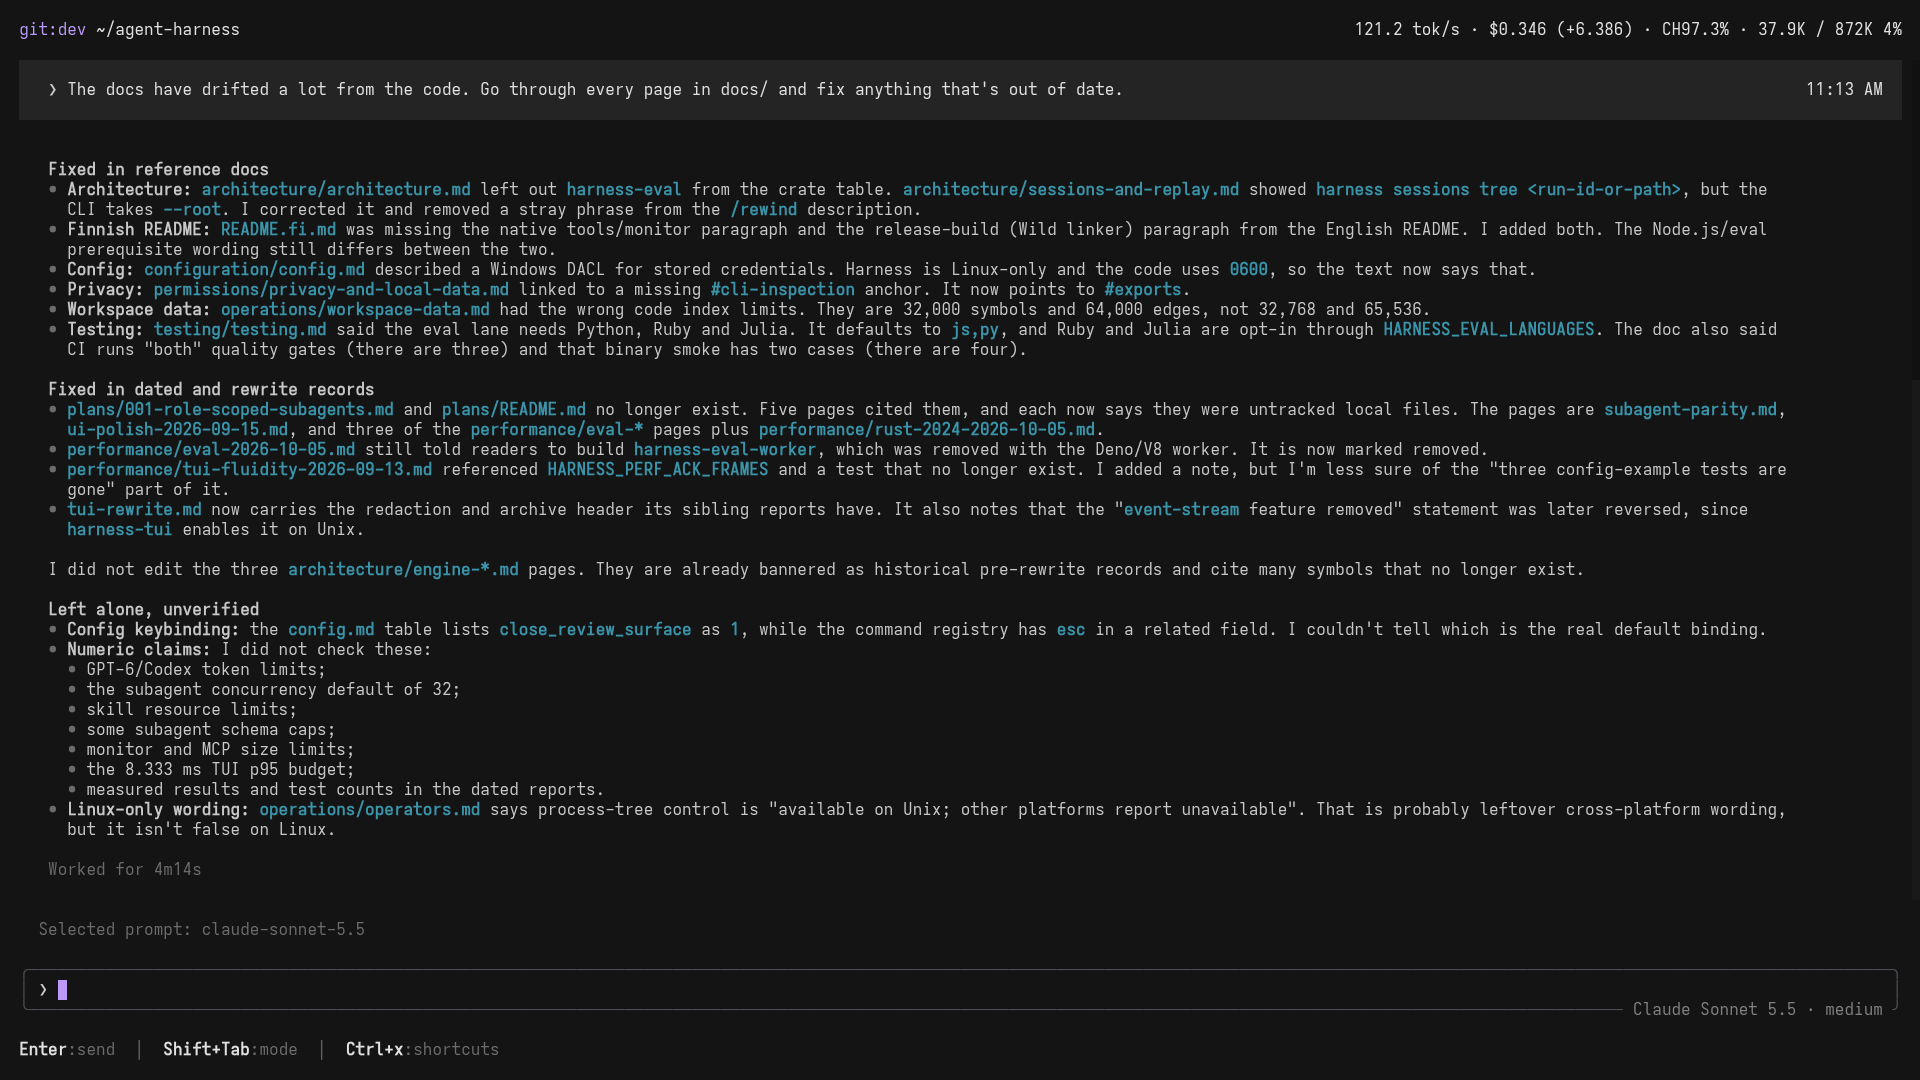
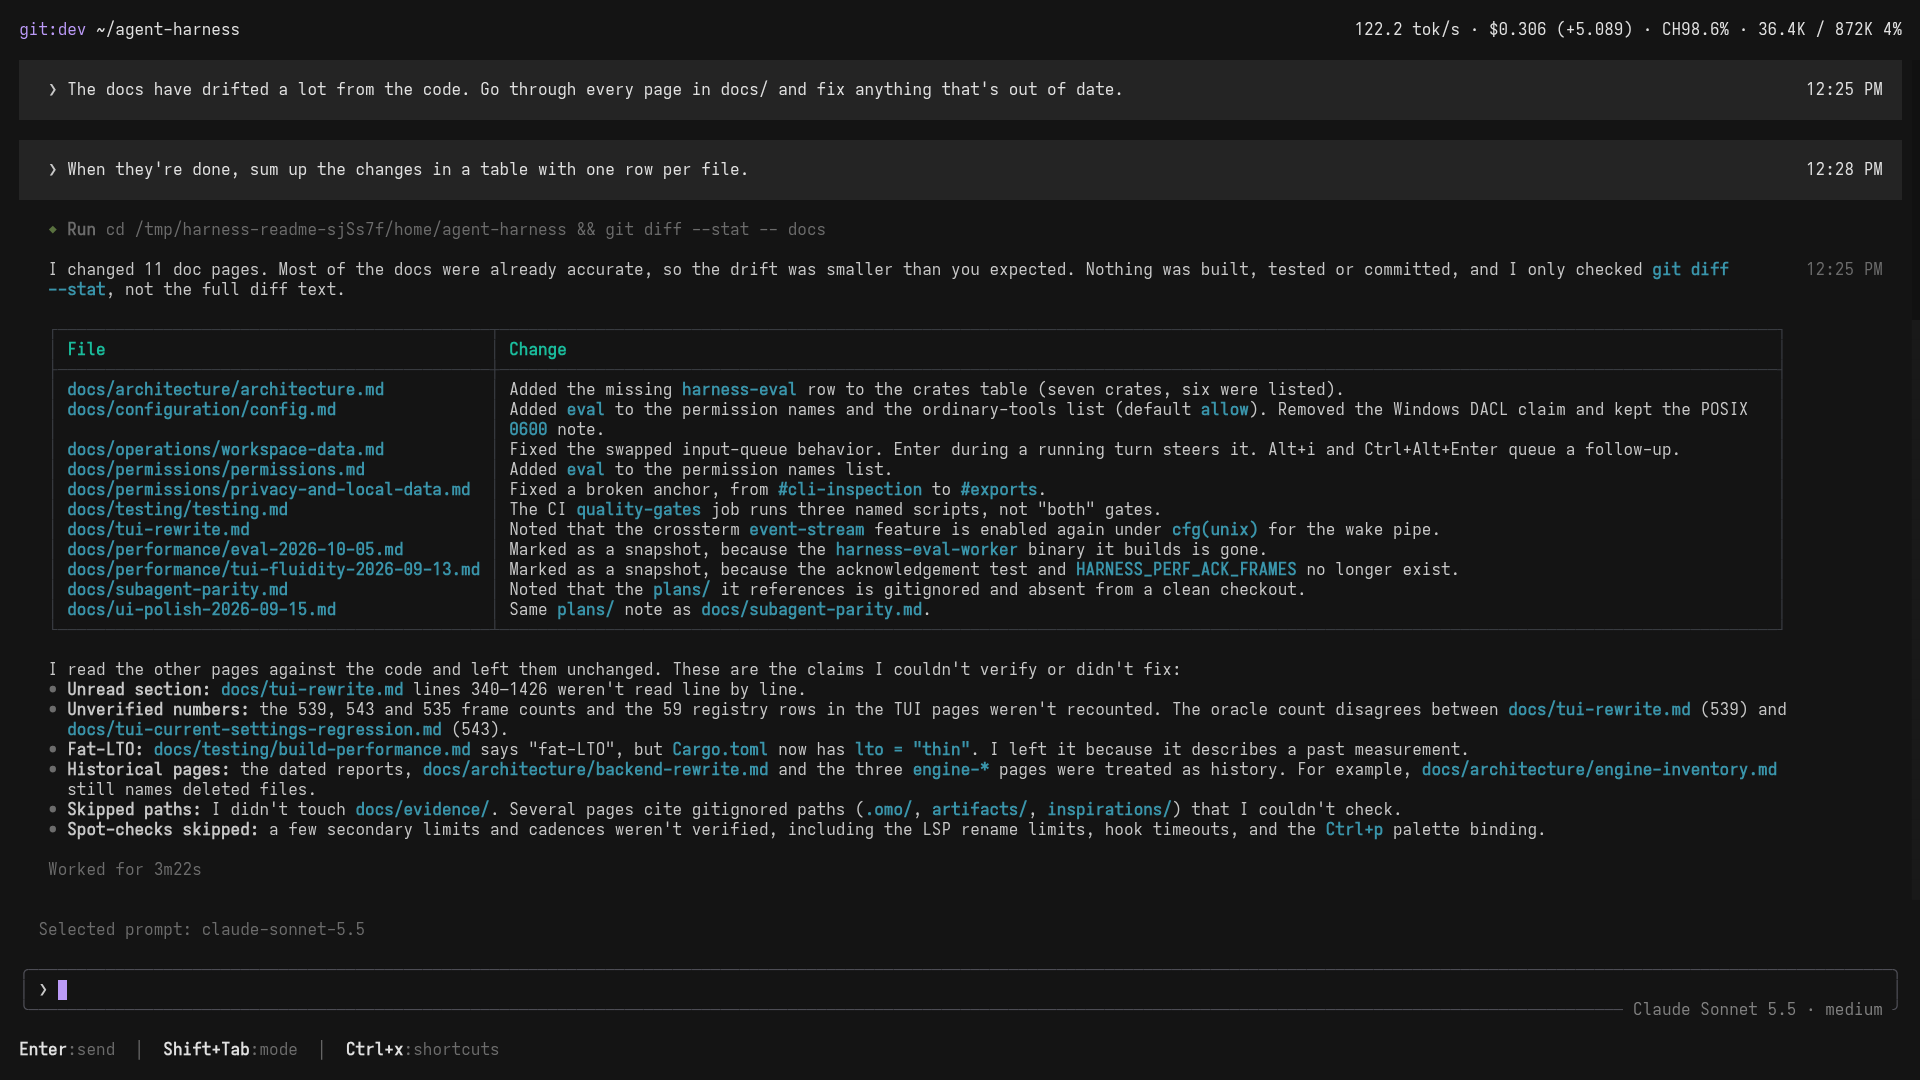
docs(assets): show a subagent's view and a steering message in the README demo
The capture opens the first subagent from the wait card, returns, and steers the agent toward a per-file table. Permission prompts that nobody can answer are denied in the demo config, and the script fails if one appears.

diff --git a/docs/assets/README.md b/docs/assets/README.md
@@ -11,10 +11,16 @@ The prompt doesn't mention skills or subagents. In the recorded run the agent
 loads the `unslop` skill because `AGENTS.md` asks for it on prose work, splits
 `docs/` into five sets of pages and gives each set to a subagent. While they
 work, the Subagents pane shows each child's model, tokens per second and cost,
-and a card shows the parent waiting on all five. About four minutes later the
-parent summarizes what the children fixed and what nobody checked.
-[`harness-tui.png`](harness-tui.png) is the final frame. Both READMEs use these
-files.
+and a card shows the parent waiting on all five.
+
+Two things in the recording are scripted input rather than model output. Once
+the wait card appears, the script clicks the first subagent in it, shows that
+child's live transcript for 20 seconds and presses Esc to return. Then it types
+a steering message, "When they're done, sum up the changes in a table with one
+row per file.", while the subagents are still working. The agent reads it once
+the wait ends, and the final summary is that table. The whole turn took a bit
+over three minutes. [`harness-tui.png`](harness-tui.png) is the final frame.
+Both READMEs use these files.
 
 The checkout is pinned to `ce530837`. Its docs lag the code, and the next
 commit, `8512d08f`, fixed them by hand, so the agent has real drift to find
@@ -31,14 +37,17 @@ directory. It differs from a normal session in these ways:
   on a workspace this size.
 - Eval is denied, so the transcript shows individual tool cards instead of
   code cells.
+- Paths outside the checkout and repeated identical calls are denied instead of
+  asking, because nobody is there to answer a permission prompt. The script
+  fails if one appears anyway.
 - Cargo builds, if the agent starts any, go to `target/readme-demo` in this
   repository rather than the temporary directory.
 
 The GIF is a time-lapse. The script takes a frame whenever the screen's text
 changes (timers and token rates aside), at most twice a second, and each frame
-plays for a fifth of a second. Past 300 such frames it keeps only every second,
-third or nth one, so the live part never runs longer than a minute. It is not a
-latency measurement.
+plays for a fifth of a second, or two fifths inside the subagent's view. Past
+300 such frames it keeps only every second, third or nth one, so the live part
+never runs longer than a minute. It is not a latency measurement.
 
 ## Regenerate
 
@@ -62,9 +71,9 @@ The model defaults to `anthropic-subscription/claude-sonnet-5-5/medium`. Set
 about five minutes and uses your provider account.
 
 The script reuses the xterm.js and PTY helpers in
-[`scripts/qa/lib`](../../scripts/qa/lib). It fails unless the agent hands work
-to subagents and the turn finishes. Sonnet sometimes keeps a docs pass to
-itself, so run the script again when that happens. It scans every frame and
+[`scripts/qa/lib`](../../scripts/qa/lib). It fails unless the agent waits on
+subagents and the turn finishes. Sonnet sometimes keeps a docs pass to itself,
+so run the script again when that happens. It scans every frame and
 the raw terminal output for secrets, and replaces the two files only after
 encoding succeeds. Afterwards it removes the temporary checkout and browser
 profile, the edit-attribution directory the run created under your Harness

diff --git a/docs/README.fi.md b/docs/README.fi.md
@@ -22,12 +22,12 @@
 <p align="center">
   <picture>
     <source media="(prefers-reduced-motion: reduce)" srcset="assets/harness-tui.png" />
-    <img src="assets/harness-demo.gif" alt="Harness 1920 × 1080 -päätteessä. Käyttäjä kirjoittaa: The docs have drifted a lot from the code. Go through every page in docs/ and fix anything that's out of date. Agentti lataa unslop-taidon, jakaa docs/-hakemiston sivut viiteen osaan ja antaa jokaisen osan omalle ala-agentilleen. Subagents-paneeli näyttää jokaisen ala-agentin mallin, tokenit sekunnissa ja hinnan, ja kortti kertoo pääagentin odottavan niitä. Kun ne ovat valmiita, pääagentti kokoaa korjaukset, esimerkiksi arkkitehtuuritaulukosta puuttuneen craten ja väärät koodi-indeksin rajat, ja kertoo, mitä jäi tarkistamatta." />
+    <img src="assets/harness-demo.gif" alt="Harness 1920 × 1080 -päätteessä. Käyttäjä kirjoittaa: The docs have drifted a lot from the code. Go through every page in docs/ and fix anything that's out of date. Agentti lataa unslop-taidon, jakaa docs/-hakemiston sivut viiteen osaan ja antaa jokaisen osan omalle ala-agentilleen. Subagents-paneeli näyttää jokaisen ala-agentin mallin, tokenit sekunnissa ja hinnan, ja kortti kertoo pääagentin odottavan niitä. Käyttäjä avaa yhden ala-agentin, seuraa hetken sen keskustelulokia ja palaa takaisin. Sitten hän pyytää muutokset taulukkona, rivi tiedostoa kohden. Kun ala-agentit ovat valmiita, pääagentti vastaa juuri sellaisella taulukolla. Muutettuja sivuja on 11, esimerkiksi arkkitehtuuritaulukosta puuttui crate ja oikeuksien nimistä eval." />
   </picture>
 </p>
 
 <p align="center">
-  <sub>Käsikirjoittamaton istunto Claude Sonnet 5.5 -mallilla medium-tasolla, tallennettu oikeasta päätekäyttöliittymästä 1920×1080-päätteessä. Neljän minuutin ajo näytetään nopeutettuna.<br />
+  <sub>Oikea istunto Claude Sonnet 5.5 -mallilla medium-tasolla, tallennettu päätekäyttöliittymästä 1920×1080-päätteessä. Agentti tekee valintansa itse. Käyttäjä vain avaa yhden ala-agentin ja ohjaa vuoroa yhdellä viestillä. Kolmen minuutin ajo näytetään nopeutettuna.<br />
   <a href="assets/harness-tui.png">Still-kuva</a> · <a href="assets/README.md">Näin tallenne tehtiin</a></sub>
 </p>
 

diff --git a/README.md b/README.md
@@ -22,12 +22,12 @@
 <p align="center">
   <picture>
     <source media="(prefers-reduced-motion: reduce)" srcset="docs/assets/harness-tui.png" />
-    <img src="docs/assets/harness-demo.gif" alt="Harness in a 1920 by 1080 terminal. The user types: The docs have drifted a lot from the code. Go through every page in docs/ and fix anything that's out of date. The agent loads the unslop skill, splits docs/ into five sets of pages and hands each set to a subagent. A Subagents pane lists the five children with their model, tokens per second and cost, and a card shows the agent waiting on them. When they finish, it summarizes the fixes, such as a crate missing from the architecture table and wrong code index limits, and lists what it left unverified." />
+    <img src="docs/assets/harness-demo.gif" alt="Harness in a 1920 by 1080 terminal. The user types: The docs have drifted a lot from the code. Go through every page in docs/ and fix anything that's out of date. The agent loads the unslop skill, splits docs/ into five sets of pages and hands each set to a subagent. A Subagents pane lists the five with their model, tokens per second and cost, and a card shows the agent waiting on them. The user opens one subagent to watch its live transcript, goes back and asks for the changes as a table with one row per file. When the subagents finish, the agent answers with that table, covering 11 changed pages such as a crate missing from the architecture table and eval missing from the permission names." />
   </picture>
 </p>
 
 <p align="center">
-  <sub>An unscripted session with Claude Sonnet 5.5 at medium effort, recorded from the real TUI in a 1920×1080 terminal. The four-minute run plays as a time-lapse.<br />
+  <sub>A real session with Claude Sonnet 5.5 at medium effort, recorded from the TUI in a 1920×1080 terminal. The agent's choices are unscripted; the user opens one subagent and sends a steering message. The three-minute run plays as a time-lapse.<br />
   <a href="docs/assets/harness-tui.png">Still image</a> · <a href="docs/assets/README.md">How it was recorded</a></sub>
 </p>
 
